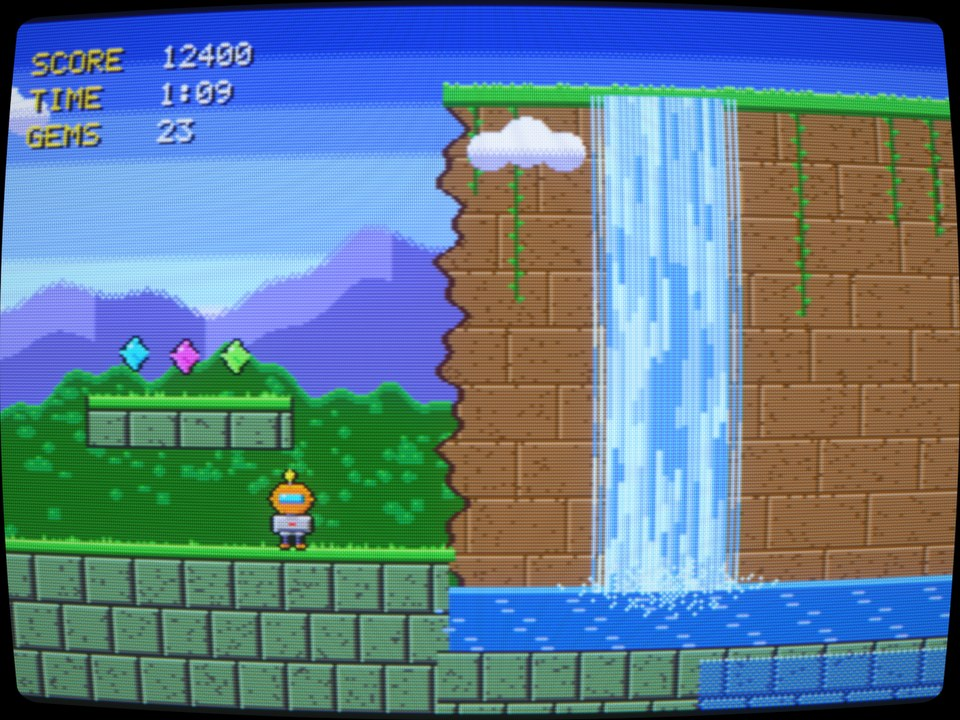
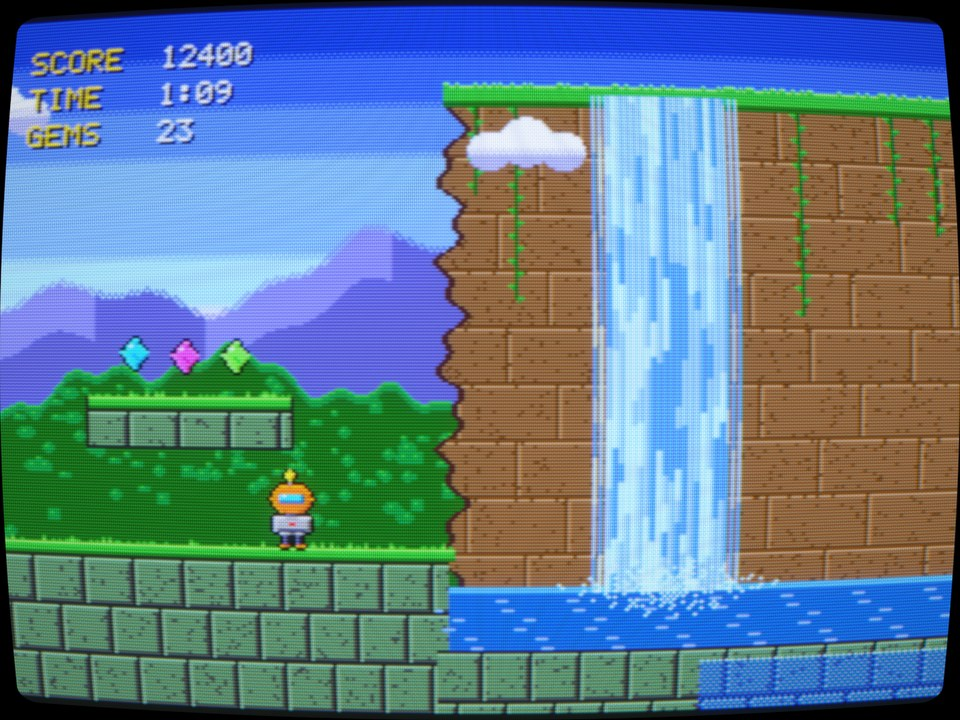
Glass glow size and a horizontal spot that grows with brightness
- New parameter "Glass glow size" (default 0.5): the halo around bright
  things reaches half as far as before.
- The beam spot now grows with brightness horizontally too, not only
  vertically. Bright detail rounds off and dark detail stays sharp, so
  S-Video and RGB no longer look boxy.
- Presets, README and screenshots updated.

Claude-Session: https://claude.ai/code/session_01Egz84Yf9hyv4d7bAAHrbzf

diff --git a/tools/make_presets.py b/tools/make_presets.py
@@ -83,7 +83,7 @@ BASE = dict(
     LR_BRIGHT=0, LR_CONTRAST=1.05, LR_NOISE=0, LR_STEADY=1,
     LR_SIG_LO=0.2, LR_SIG_HI=0.44, LR_HFOCUS=0.5, LR_GAMMA=2.4, LR_PERSIST=0.08, LR_CONV=0.4,
     LR_MASK_TYPE=2, LR_MASK_STR=0.5, LR_MASK_TRIADS=360, LR_WHITE=8500,
-    LR_CURV_X=0.045, LR_CURV_Y=0.06, LR_CORNER=0.045, LR_GLOW=0.06, LR_VIGNETTE=0.3, LR_OVERSCAN=0.05, LR_AMBIENT=0.002,
+    LR_CURV_X=0.045, LR_CURV_Y=0.06, LR_CORNER=0.045, LR_GLOW=0.06, LR_GLOW_SIZE=0.5, LR_VIGNETTE=0.3, LR_OVERSCAN=0.05, LR_AMBIENT=0.002,
 )
 
 PRESETS = {
